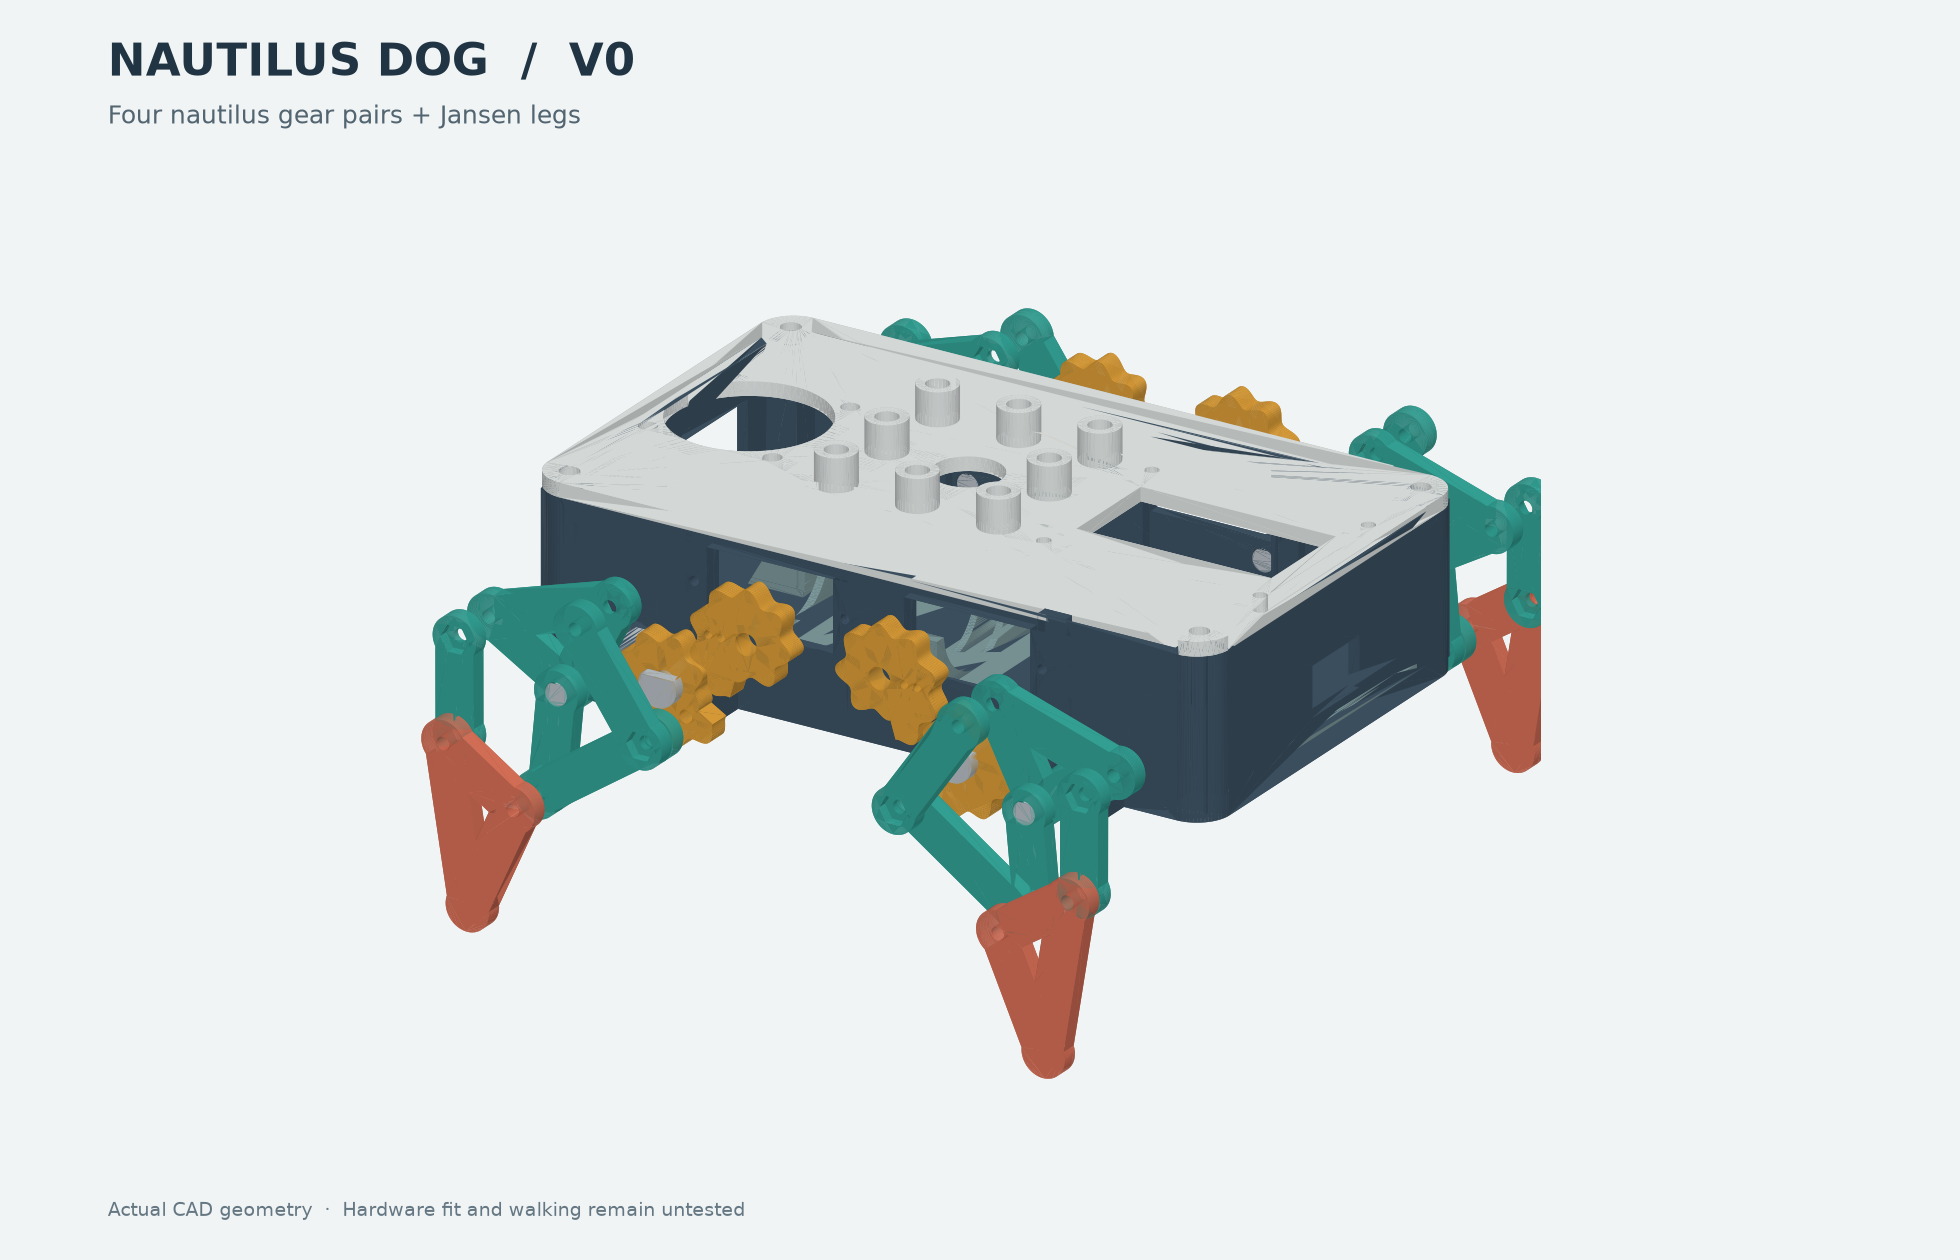
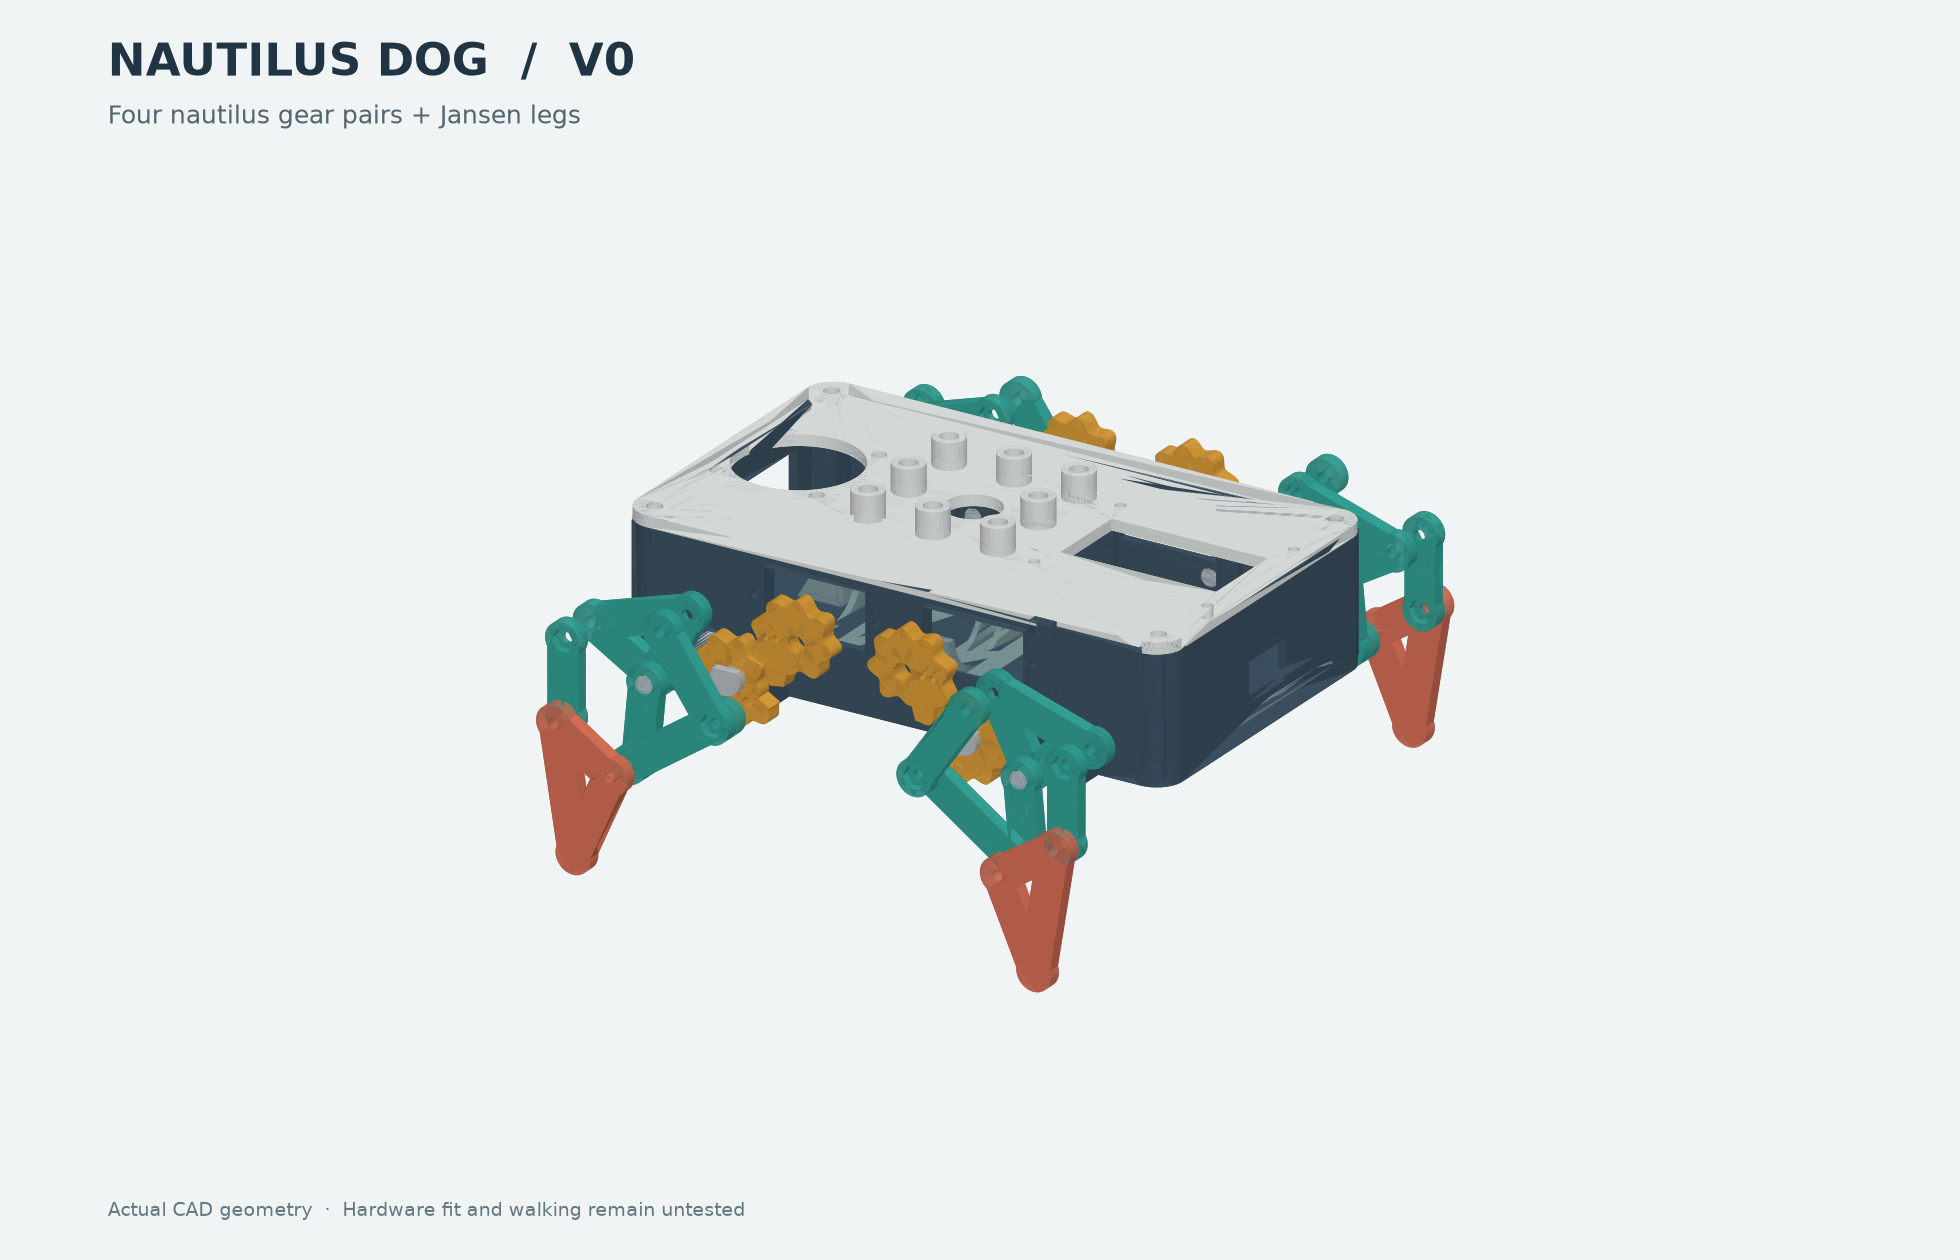
Regenerate slicer project settings from installed profiles

Changed region(s): [[0.2179, 0.2476, 0.8092, 0.8667]]

diff --git a/tools/case/docs/profiles.py b/tools/case/docs/profiles.py
@@ -16,12 +16,24 @@ def flat(kind, name):
 def build(root=Path.cwd()):
     out = root / 'build/case/docs/profiles'; out.mkdir(parents=True, exist_ok=True)
     paths = []
+    project = {}
     for kind, name in (('machine', 'Bambu Lab A1 0.4 nozzle'), ('process', '0.20mm Standard @BBL A1'),
                        ('filament', 'Generic PETG @BBL A1')):
         d = flat(kind, name); d['name'] = name; d['from'] = 'system'
         if kind == 'machine':
             d['curr_bed_type'] = 'Textured PEI Plate'   # PETG is not allowed on the Cool Plate
+        project.update(d)
         p = out / f'{kind}.json'; p.write_text(json.dumps(d, indent=1)); paths.append(str(p))
+    # A fresh checkout has no saved 3MF to extract a project config from.
+    # Seed it from the same installed vendor profiles passed to the slicer CLI.
+    for key in ('name', 'from', 'type', 'instantiation', 'setting_id', 'compatible_printers', 'compatible_printers_condition'):
+        project.pop(key, None)
+    project.update({'version': '02.07.01.62', 'printer_technology': 'FFF',
+                    'printer_model': 'Bambu Lab A1', 'printer_settings_id': 'Bambu Lab A1 0.4 nozzle',
+                    'print_settings_id': '0.20mm Standard @BBL A1',
+                    'filament_settings_id': ['Generic PETG @BBL A1'],
+                    'curr_bed_type': 'Textured PEI Plate'})
+    (out.parent / 'project_settings.config').write_text(json.dumps(project, indent=1))
     return paths
 
 

diff --git a/tools/render_readme.py b/tools/render_readme.py
@@ -62,7 +62,7 @@ def render(parts, filename, title, elev, azim, opened=False, side=False):
     center = (lo + hi) / 2; span = hi - lo
     for dim, setter in enumerate((ax.set_xlim, ax.set_ylim, ax.set_zlim)):
         setter(center[dim] - span[dim] * .56, center[dim] + span[dim] * .56)
-    ax.set_box_aspect(span, zoom=1.5 if side else (1.12 if opened else 1.25))
+    ax.set_box_aspect(span)
     ax.set_proj_type("ortho")
     ax.view_init(elev=elev, azim=azim)
     ax.set_axis_off()
